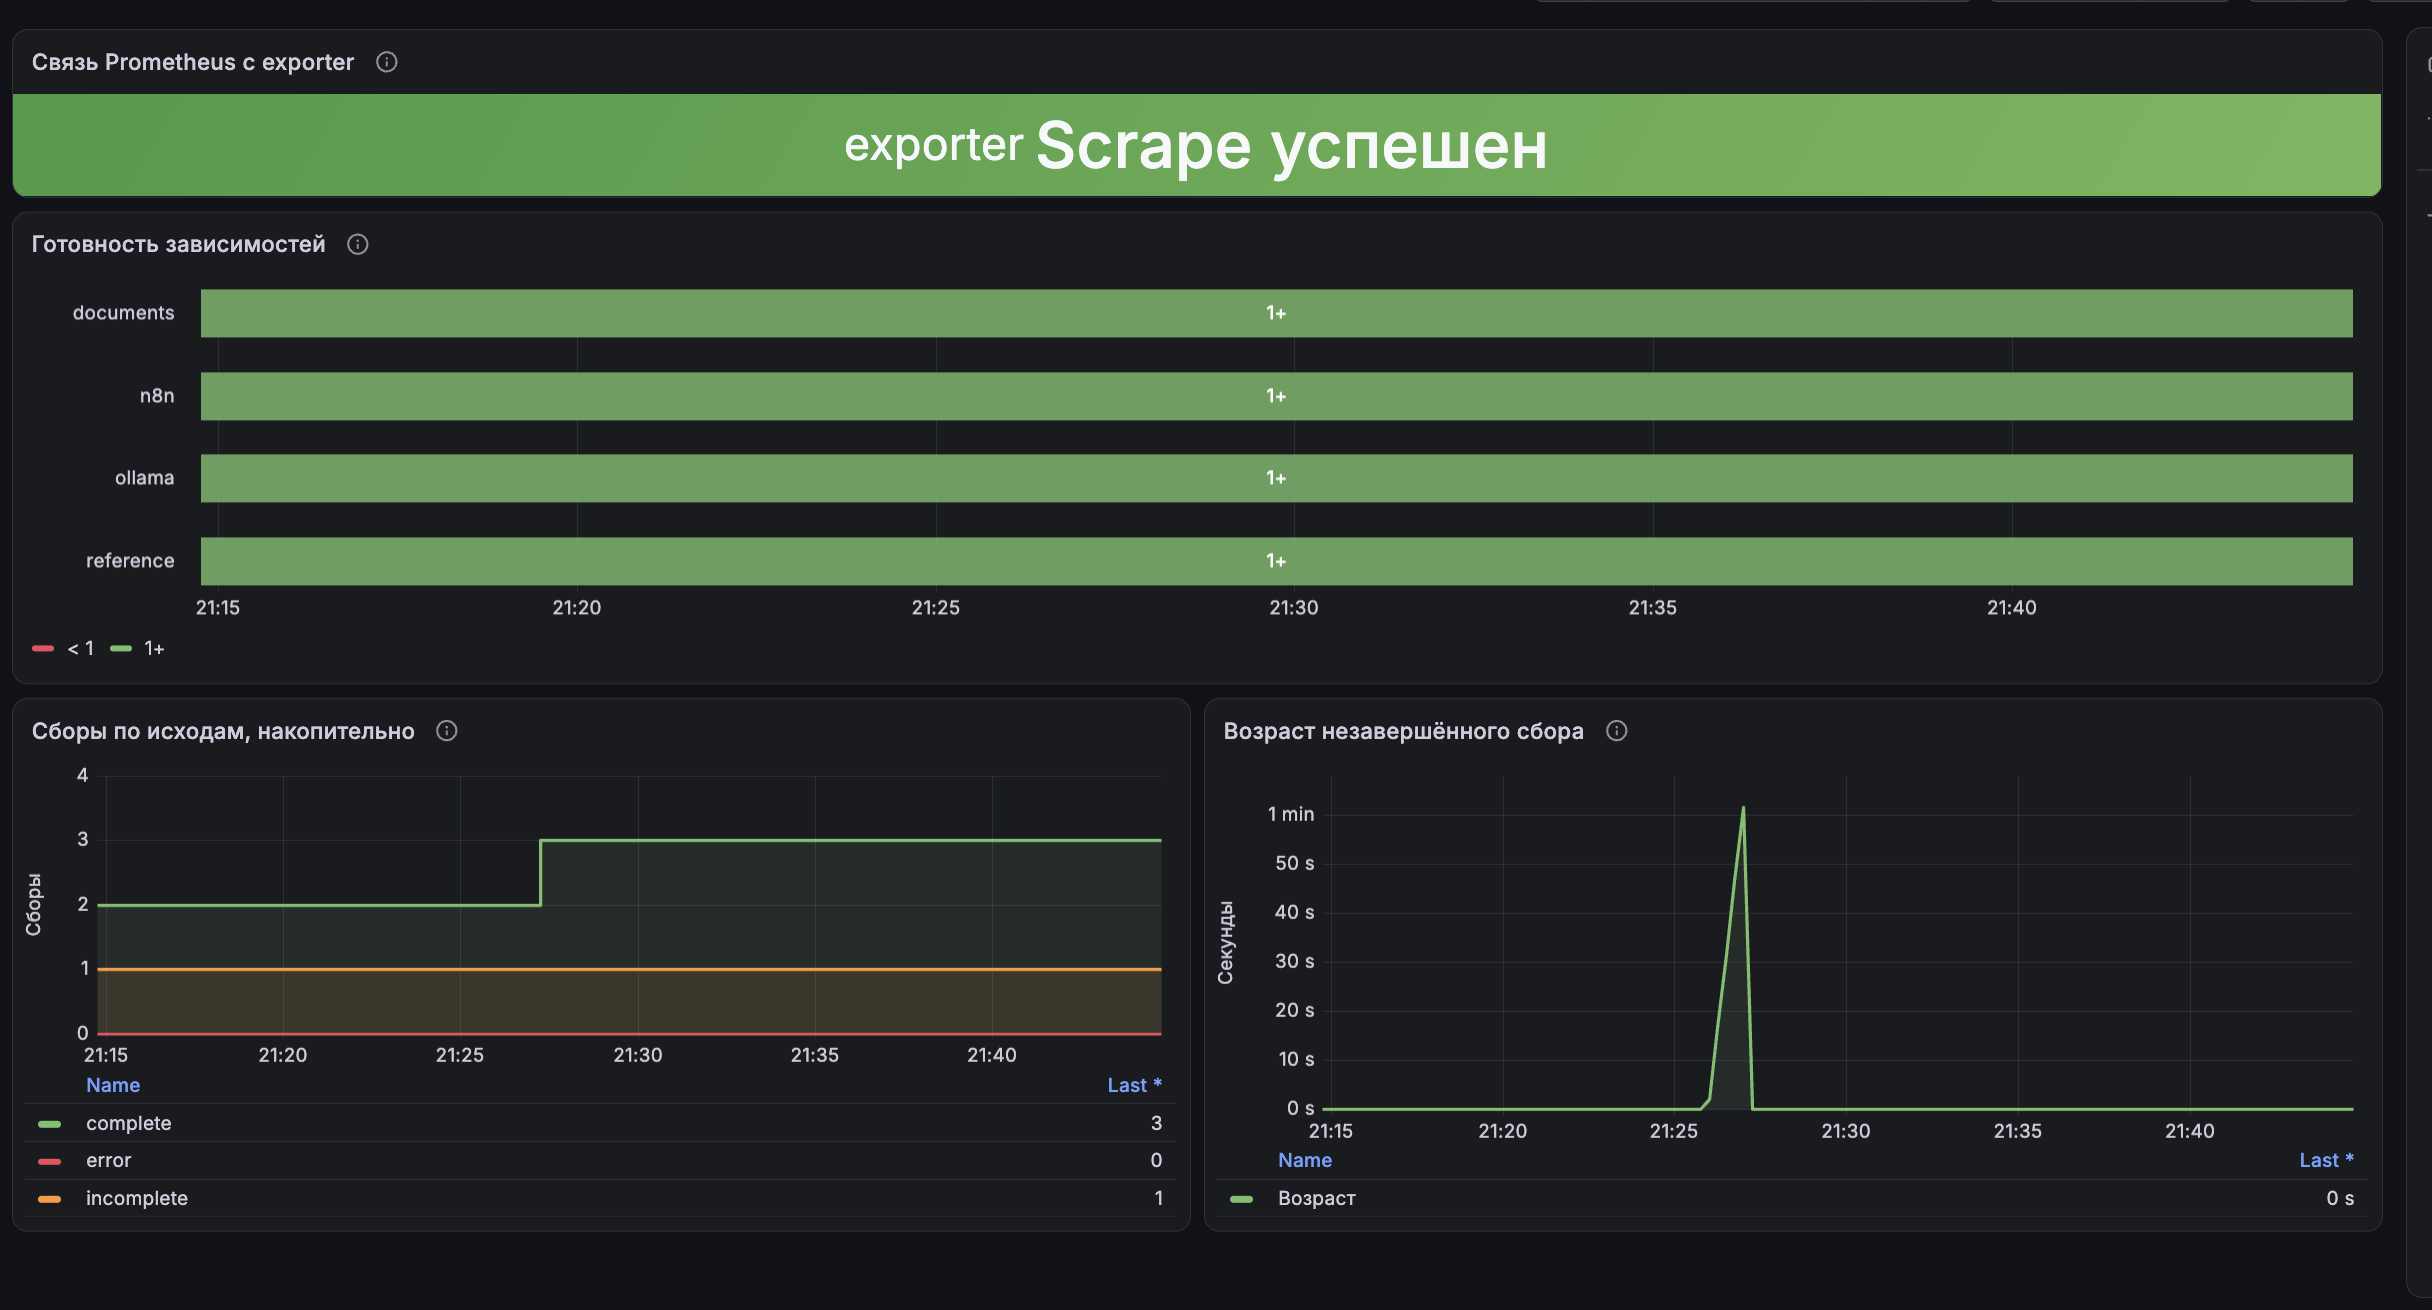
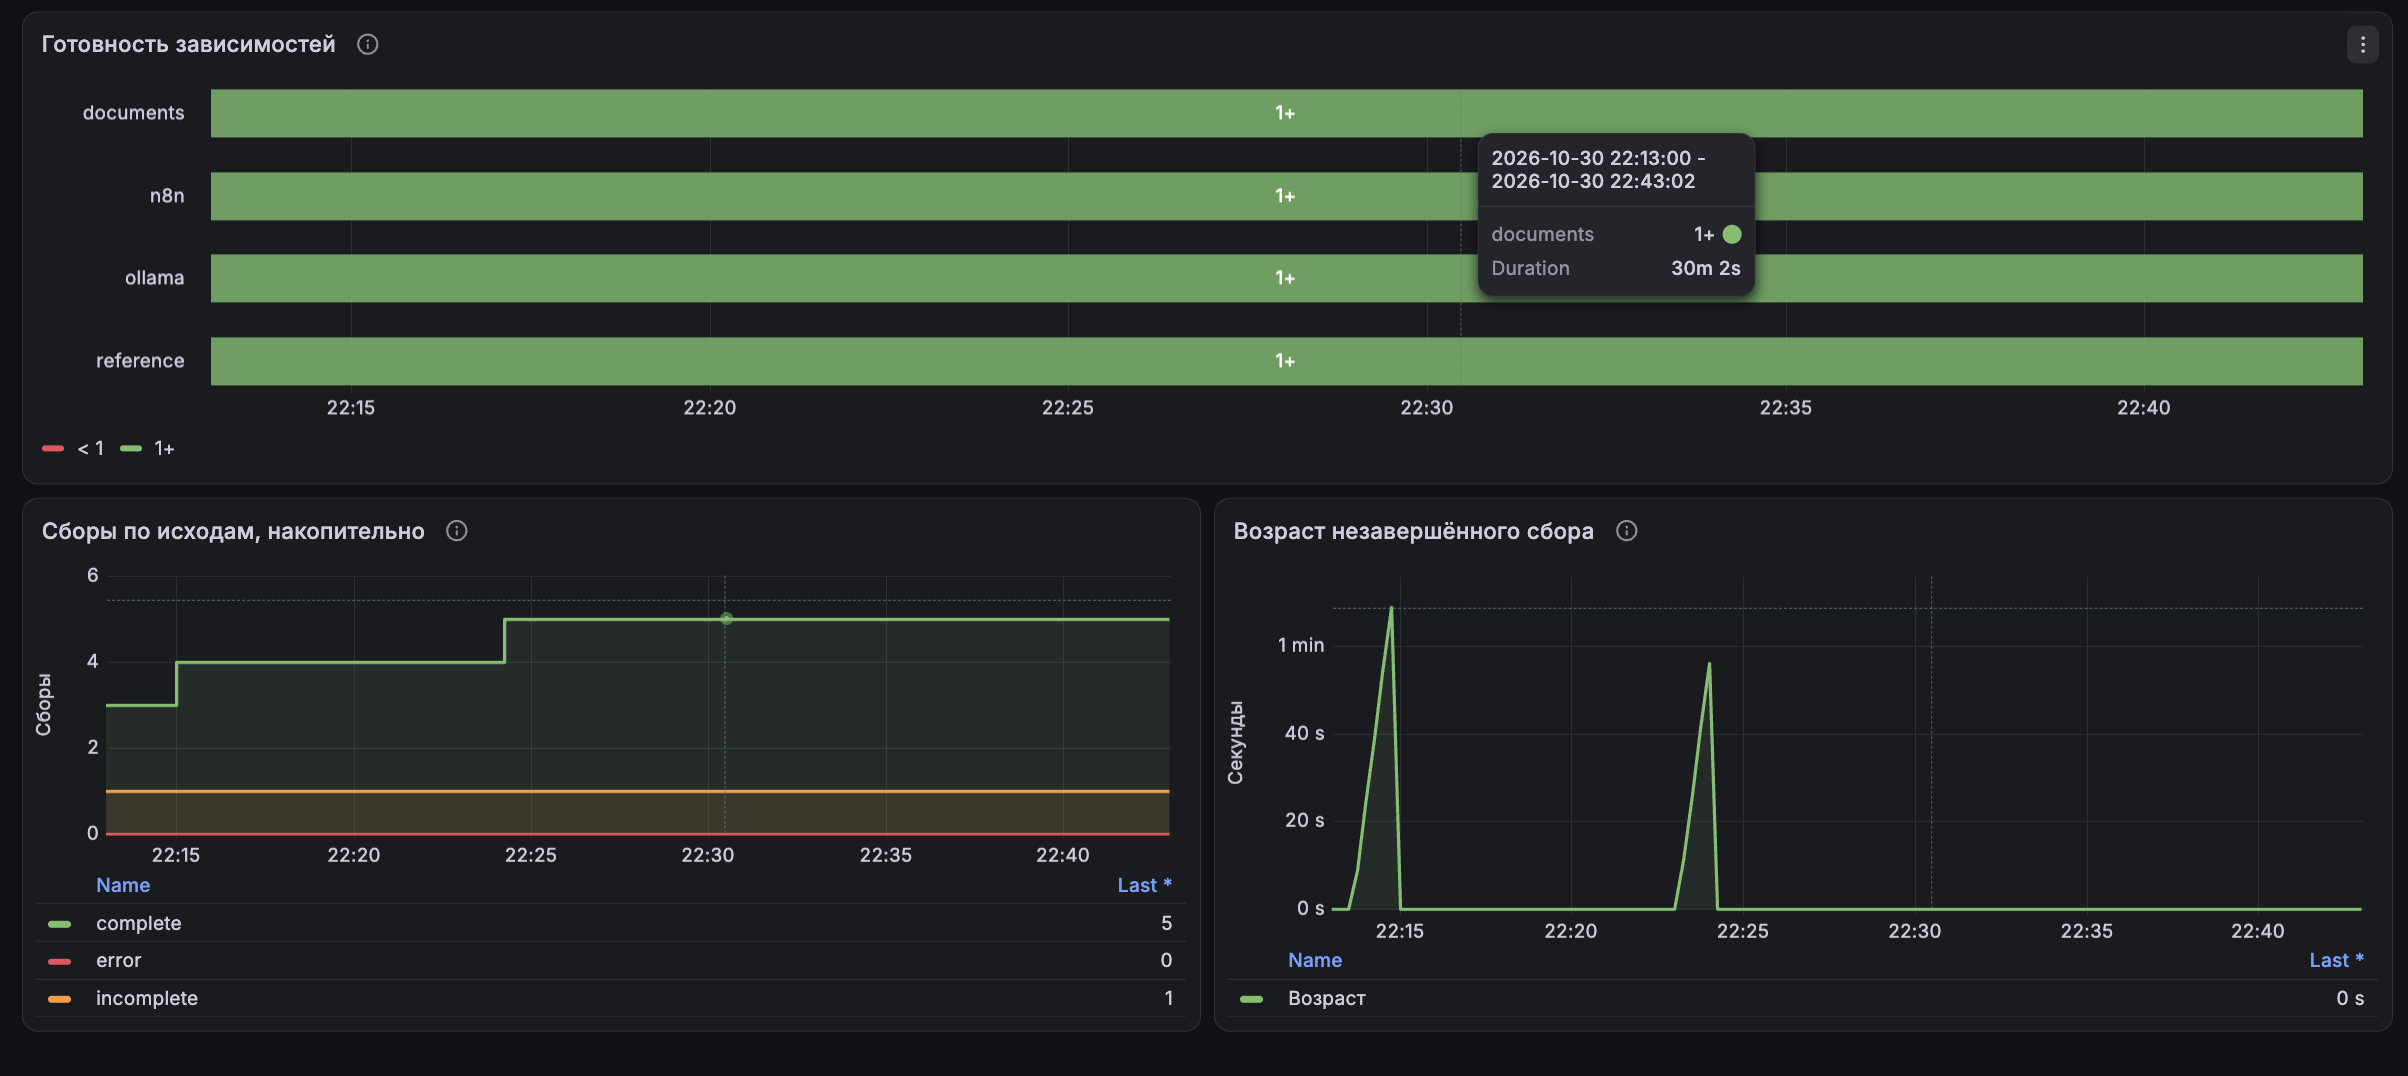
fix: отчет

diff --git a/lecture-2-observability/report/README.md b/lecture-2-observability/report/README.md
@@ -17,14 +17,18 @@ Jaeger, Karma и приемник уведомлений установлены 
 В нем проверяли Services, связанные поды и порты, открывали port-forward
 для API, Prometheus, Grafana и приемника алертов.
 
-![Headlamp: Services кластера kind-labs](screenshots/09-headlamp-services.png)
+<img src="screenshots/09-headlamp-services.png" alt="Сервисы в Headlamp" width="1000">
+
+*Сервисы стенда в Headlamp. Здесь же открывали port-forward к компонентам.*
 
 У Service `lab2-api` порт 80 направлен на порт 8000 контейнера. На скриншоте
 показан проброс на локальный порт 8000; в `forward_stack.py` используется
 18080. Снимки сделаны до последнего rollout, поэтому имена подов отличаются
 от текущих.
 
-![Headlamp: карточка lab2-api и port-forward](screenshots/10-headlamp-api-service.png)
+<img src="screenshots/10-headlamp-api-service.png" alt="Service lab2-api" width="800">
+
+*Карточка `lab2-api`: поды за Service и проброс порта 80 → 8000.*
 
 ## Часть 1. Метрики
 
@@ -46,9 +50,13 @@ Jaeger, Karma и приемник уведомлений установлены 
 Проверили реакцию графиков: `/load` увеличивал число запросов в секунду,
 `/fail` повышал долю 5xx, `/slow` увеличивал p95 примерно до 2,4 с.
 
-![RED-дашборд: изменение RPS, доли 5xx и p95 под нагрузкой](screenshots/01-red-dashboard.jpg)
+<img src="screenshots/01-red-dashboard.jpg" alt="RED-дашборд" width="1000">
 
-![График RPS и Терминатор с поднятым большим пальцем](rps-terminator-meme.png)
+*RED-дашборд под тестовой нагрузкой: RPS, доля 5xx и p95 времени ответа.*
+
+<img src="screenshots/rps-terminator-meme.png" alt="RPS одобряет" width="1000">
+
+*Когда нагрузочный тест получил одобрение самого графика.*
 
 В контрольном прогоне за 210 секунд выполнили 630 запросов, по 210
 на `/health`, `/fail` и `/slow`. Транспортных повторов не было, p95 составил
@@ -75,7 +83,9 @@ Loki подключили к Grafana. После вызова `/fail` нашли
 | status="500"
 ```
 
-![Grafana Explore: ERROR-лог запроса /fail с trace_id](screenshots/02-api-error-correlated.jpg)
+<img src="screenshots/02-api-error-correlated.jpg" alt="Лог ошибки в Loki" width="1000">
+
+*Запрос `/fail` в Loki: HTTP 500, длительность и `trace_id` для перехода к трейсу.*
 
 В записи есть маршрут, статус, длительность и `trace_id`. Последний оставили
 полем JSON: уникальная индексируемая метка на каждый запрос увеличивала бы
@@ -90,18 +100,24 @@ Jaeger добавили в Grafana как отдельный источник д
 Операция ожидания выполняется внутри дочернего спана `slow-op`. В сохраненном
 трейсе он занимает 2,001 с, почти всю длительность запроса.
 
-![Jaeger: водопад GET /slow с дочерним спаном slow-op](screenshots/03-slow-waterfall.jpg)
+<img src="screenshots/03-slow-waterfall.jpg" alt="Трейс медленного запроса" width="1000">
+
+*Водопад `/slow` в Jaeger. Почти все время запроса занимает дочерний спан `slow-op`.*
 
 **`/fail`.** Спан содержит HTTP 500 и отмечен атрибутами
 `otel.status_code=ERROR`, `error=true`.
 
-![Jaeger: ошибочный спан GET /fail с HTTP 500](screenshots/04-fail-trace.jpg)
+<img src="screenshots/04-fail-trace.jpg" alt="Трейс запроса с ошибкой" width="1000">
+
+*Трейс `/fail`: ответ HTTP 500 и отметка об ошибке на спане.*
 
 **Связь с логами.** Из записи Loki взяли `trace_id`
 `b567b4d69c9a479a9d337e54d8acbf10` и открыли трейс через derived field
 в Grafana. Совпали ID запроса, маршрут `/fail` и статус ошибки.
 
-![Grafana Explore: лог Loki и соответствующий трейс Jaeger](screenshots/08-log-to-trace.jpg)
+<img src="screenshots/08-log-to-trace.jpg" alt="Переход от лога к трейсу" width="1000">
+
+*Один запрос в двух источниках: запись Loki и связанный с ней трейс Jaeger.*
 
 ## Часть 4. Алерты
 
@@ -123,18 +139,24 @@ Jaeger добавили в Grafana как отдельный источник д
 **`Lab2High5xxRate` и `Lab2HighP95`.** Для проверки подавали смешанный трафик
 на `/health`, `/fail` и `/slow`. Оба правила перешли в firing и появились в Karma.
 
-![Karma: активные Lab2High5xxRate и Lab2HighP95](screenshots/07-karma-traffic.jpg)
+<img src="screenshots/07-karma-traffic.jpg" alt="Алерты под нагрузкой" width="1000">
+
+*Karma после нагрузочного прогона: сработали правила на долю ошибок и p95.*
 
 **`Lab2ApiUnavailable`.** Масштабировали API до нуля. Алерт перешел в firing
 примерно через 150 секунд с учетом обновления targets, staleness и выдержки
 правила. При первоначальной проверке таймаут ожидания был слишком коротким;
 после его увеличения срабатывание подтвердили.
 
-![Alertmanager: три алерта у получателя lab2-webhook](screenshots/05-alertmanager-firing.jpg)
+<img src="screenshots/05-alertmanager-firing.jpg" alt="Срабатывания в Alertmanager" width="1000">
+
+*Три срабатывания в Alertmanager, направленные получателю `lab2-webhook`.*
 
 Все три срабатывания также отображаются в Karma:
 
-![Karma: три активных критических алерта](screenshots/07-karma-outage.jpg)
+<img src="screenshots/07-karma-outage.jpg" alt="Алерты при остановке API" width="1000">
+
+*После остановки API в Karma появился и алерт о недоступности сервиса.*
 
 В журнале receiver подтвердили получение `firing` от каждого правила.
 После восстановления двух реплик Prometheus снова показал `up=1`, пришли
@@ -149,4 +171,3 @@ Jaeger добавили в Grafana как отдельный источник д
 Helm charts, правила и настройки Grafana находятся в `helm/`, values для Loki
 и Alloy в `api/`, JSON дашбордов в `helm/dashboards/`.
 Jaeger и receiver хранят историю в памяти, Loki использует временный том.
-Постоянное хранение для этого стенда пока не настроено.

diff --git a/lecture-8-ai/tender-review/README.md b/lecture-8-ai/tender-review/README.md
@@ -121,15 +121,13 @@ kubectl --context kind-labs -n default port-forward service/grafana 3000:80
 
 Точную копию созданного файла сохранили в [reports/evaluation-demo-tender-v1.json](reports/evaluation-demo-tender-v1.json). Выводы сверили с исходниками. Эталонные статусы модели не передавали.
 
-Прошли 126 Python-тестов и 73 проверки workflow. В тестах неверные версии, пропущенные критерии и выдуманные ссылки останавливают обработку до создания файла.
-
 ## Часть 4. Мониторинг
 
 Переиспользовали Prometheus и Grafana из второй лабы. Exporter раз в 15 секунд проверяет два MCP, n8n и наличие модели в Ollama. Генерацию для проверки доступности не запускаем.
 
 ![Три графика: готовность зависимостей, исходы и возраст сбора](screenshots/monitoring-dashboard.png)
 
-На графиках сохранён сбор № 19: возраст рос, после завершения обнулился, `complete` увеличился с 2 до 3. Пик ниже длительности самого сбора из-за интервала измерений.
+На графиках видны два завершённых сбора: `complete` вырос с 3 до 5, возраст после каждого вернулся к нулю. Все четыре зависимости доступны, неполных сборов накопилось 1, технических ошибок 0.
 
 Для алертов выбрали:
 
